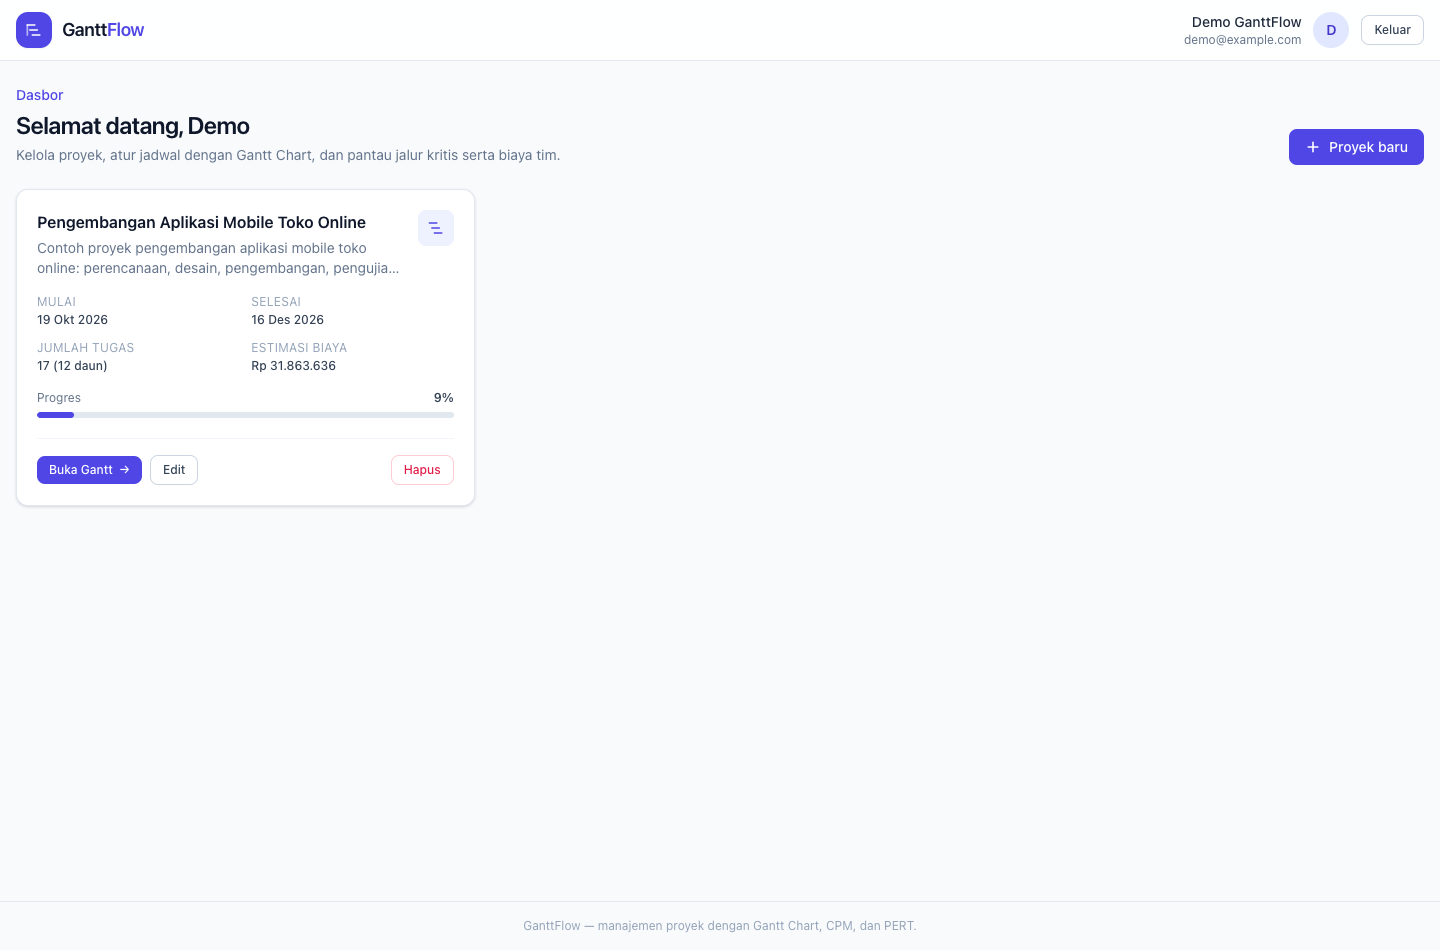
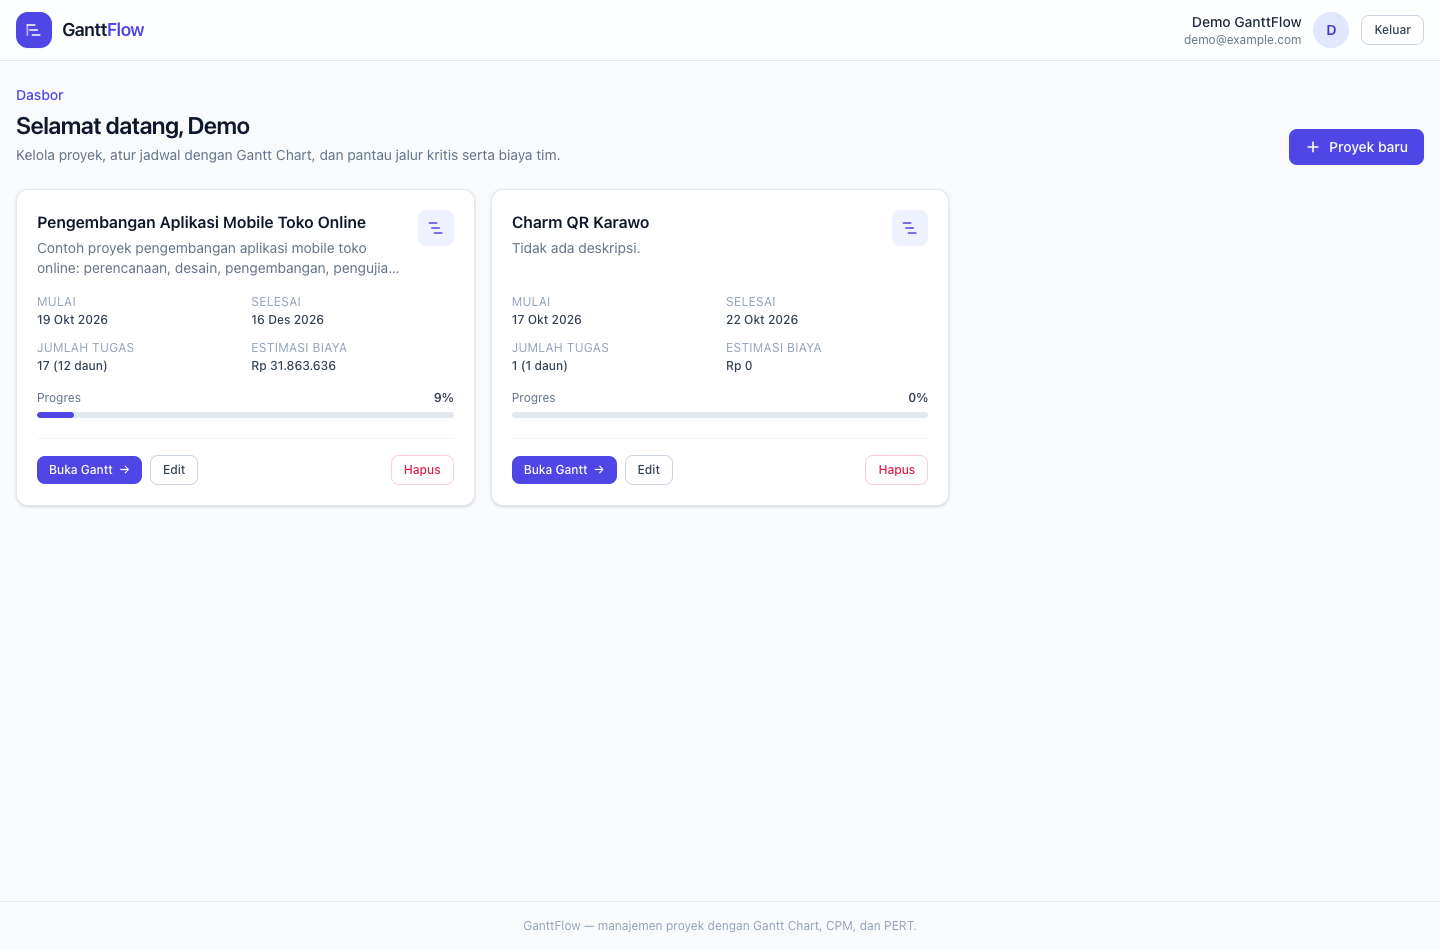
docs: catat perbaikan setelah folder proyek dipindah
Prisma Client menyimpan path absolut saat generate, sehingga memindah folder
membuat koneksi database gagal. Tambahkan langkah pemulihan di README dan
catat penyebab serta hasil verifikasi ulang di PROGRESS.

🤖 Generated with Codebuff

diff --git a/PROGRESS.md b/PROGRESS.md
@@ -239,6 +239,26 @@ Gate Fase 4: lulus.
 - **Push belum dilakukan** karena URL repository GitHub belum diberikan. Tidak ada URL, visibilitas,
   atau status remote yang diklaim.
 
+## Perbaikan setelah folder proyek dipindah
+
+Folder proyek dipindah dari `freebuff project/gantt-project/gantt-project-app` menjadi
+`freebuff project/gantt-project-app`, dan aplikasi tidak bisa dijalankan lagi. Penyebab yang ditemukan:
+
+1. **Prisma Client menyimpan path absolut.** `node_modules/.prisma/client/index.js` masih memuat
+   `/…/gantt-project/gantt-project-app/server/prisma/schema.prisma`, sehingga `DATABASE_URL="file:./dev.db"`
+   diresolusi ke folder yang sudah tidak ada. Ini penyebab utama kegagalan start.
+2. **Dev server lama masih hidup.** Proses `concurrently`/`vite`/`tsx` dari lokasi lama tetap memegang
+   port 3001 dan 5173 sehingga `npm run dev` berikutnya gagal `EADDRINUSE`.
+3. **Cache Vite/vitest** di `client/node_modules/.vite` dan `server/node_modules/.vite` masih menunjuk
+   lokasi lama.
+
+Perbaikan yang dilakukan: hentikan proses lama, `npm run db:generate` untuk menulis ulang path Prisma,
+hapus cache Vite/vitest, lalu mulai ulang dev server. `server/.env` tetap memakai path relatif sehingga
+tidak perlu diubah.
+
+Verifikasi ulang setelah perbaikan: `npm run typecheck` exit 0, `npm test` exit 0 (62 shared, 22 server,
+14 client = 98), `npm run build` exit 0, `npm run verify:browser` 19/19 lolos tanpa error runtime/console.
+
 ## Checklist penerimaan
 
 ### Proyek dan autentikasi

diff --git a/README.md b/README.md
@@ -363,7 +363,8 @@ diubah langsung. Menghapus tugas induk juga menghapus seluruh keturunannya.
 | Server gagal start: `JWT_SECRET kosong/terlalu pendek` | Isi `server/.env` dengan `openssl rand -hex 32`. |
 | `Can't reach database server` / tabel tidak ada | Jalankan `npm run db:migrate` dari root. |
 | Perubahan schema Prisma tidak dikenali | `npm run db:generate`, lalu restart server. |
-| Port 3001/5173 sudah dipakai | Hentikan proses lain atau ubah `PORT`/port Vite. |
+| Port 3001/5173 sudah dipakai | Hentikan proses lain atau ubah `PORT`/port Vite. Sisa dev server dari lokasi folder lama juga bisa memegang port: `lsof -ti:3001,5173 | xargs kill`. |
+| Folder proyek dipindah atau di-rename, lalu server gagal start / `PrismaClientInitializationError` | Prisma Client menyimpan path absolut saat `prisma generate`. Hentikan dev server, jalankan `npm run db:generate`, hapus cache Vite (`rm -rf client/node_modules/.vite server/node_modules/.vite`), lalu `npm run dev`. |
 | Login gagal setelah mengganti password seed | Jalankan `npm run db:seed` untuk menyiapkan ulang akun demo. |
 | Data ingin direset total | `npm run db:reset && npm run db:seed` (menghapus data lokal). |
 | Verifikasi browser gagal: Chrome tidak ditemukan | Pasang Google Chrome, atau ubah opsi `channel` pada `scripts/browser-verify.mjs`. |
